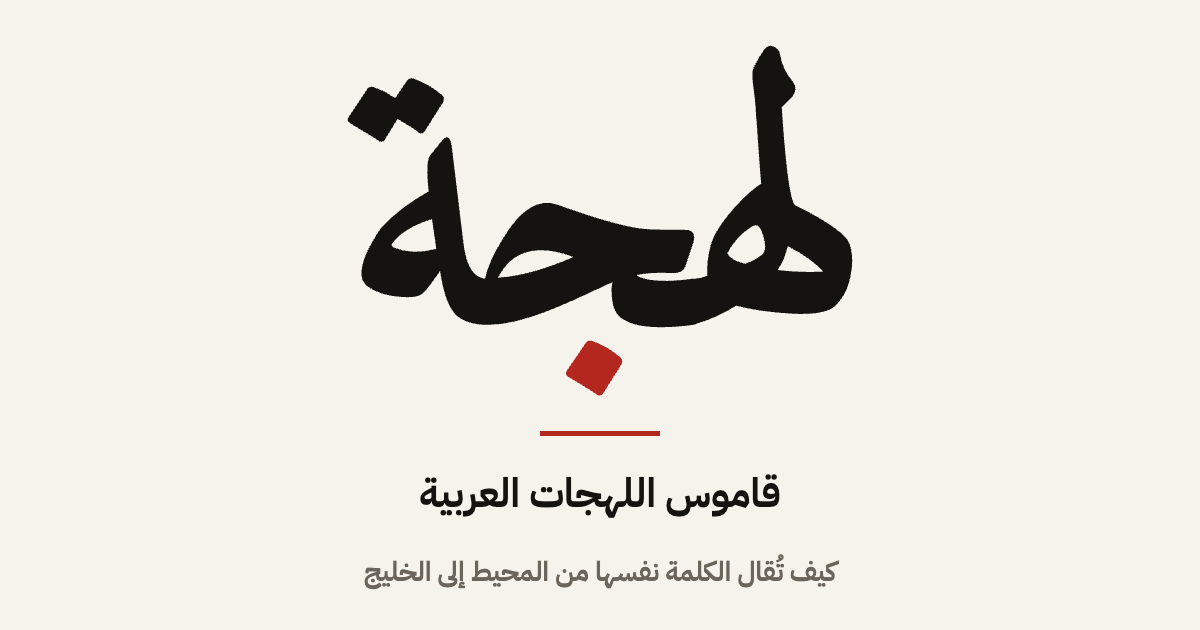
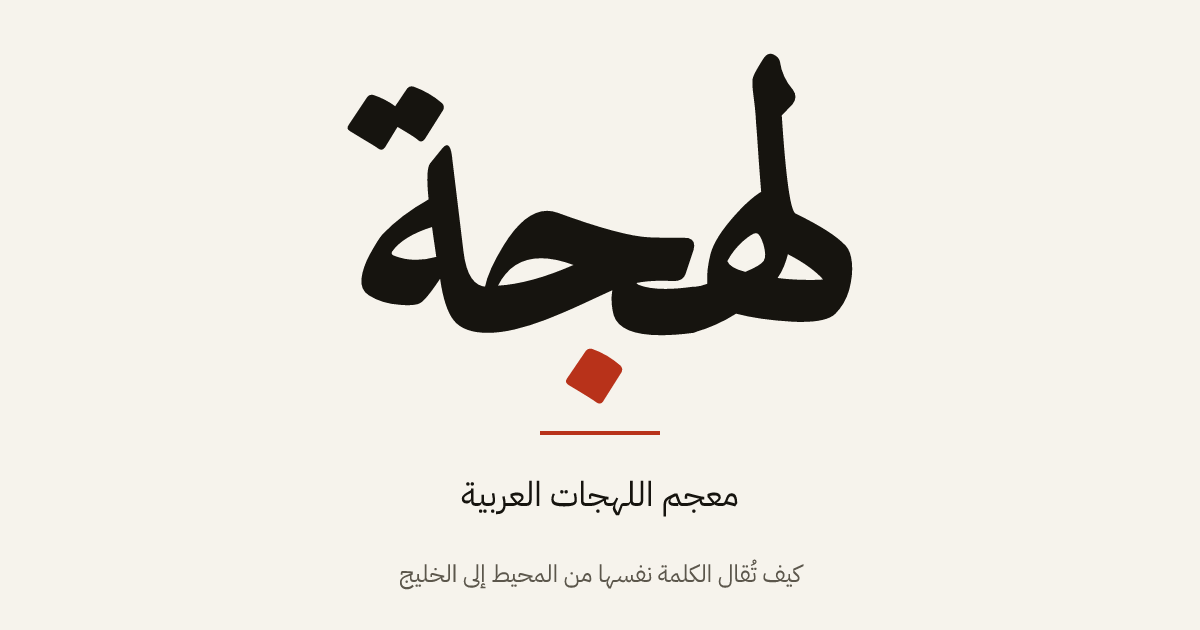
refactor: update terminology from "قاموس" to "معجم" throughout the project
- Changed all instances of "قاموس" to "معجم" in README.md, layout files, and various page components to reflect a more accurate description of the project's purpose.
- Updated SEO descriptions and titles to maintain consistency with the new terminology.
- Adjusted relevant documentation and comments to align with the terminology change.

diff --git a/app/pages/about.vue b/app/pages/about.vue
@@ -1,5 +1,5 @@
 <script setup lang="ts">
-useSeo({ title: 'عن الموقع', description: 'لهجة قاموس تشاركي للهجات العربية: يربط كل كلمة دارجة بمعناها بالفصحى ليظهر كيف تُقال الفكرة نفسها في أنحاء الوطن العربي.' })
+useSeo({ title: 'عن الموقع', description: 'لهجة معجم تشاركي للهجات العربية: يربط كل كلمة دارجة بمعناها بالفصحى ليظهر كيف تُقال الفكرة نفسها في أنحاء الوطن العربي.' })
 // The list of dialects is read from the database rather than written here: a
 // list typed by hand went out of date the day نجدي and حجازي became groups of
 // their own. ?all=1 as on /dialects — a dialect is supported from the moment a
@@ -11,7 +11,7 @@ const { data: dialects } = await useFetch('/api/dialects', { query: { all: 1 } }
   <article>
     <BreadCrumbs :trail="[{ label: 'عن الموقع' }]" />
     <h1>عن موقع لهجة</h1>
-    <p>قاموس إلكتروني عربي بين اللغة العربية الفصحى ولهجاتها الدارجة.</p>
+    <p>معجم إلكتروني عربي بين اللغة العربية الفصحى ولهجاتها الدارجة.</p>
     <p>
       هذا الموقع للاحتفاء بالثقافات العربية المتعددة وللتبادل الإيجابي البناء
       بين هذه الثقافات.
@@ -28,7 +28,7 @@ const { data: dialects } = await useFetch('/api/dialects', { query: { all: 1 } }
     <section id="vision">
       <h2>رؤيتنا</h2>
       <p>
-        نسعى إلى بناء أكبر قاموس تفاعلي للهجات العربية، يساهم في الحفاظ على
+        نسعى إلى بناء أكبر معجم تفاعلي للهجات العربية، يساهم في الحفاظ على
         التنوع اللغوي والثقافي في العالم العربي، ويسهل التواصل بين المتحدثين
         باللهجات المختلفة.
       </p>
@@ -39,11 +39,11 @@ const { data: dialects } = await useFetch('/api/dialects', { query: { all: 1 } }
     </section>
 
     <section id="dictionary">
-      <h2>القاموس</h2>
+      <h2>المعجم</h2>
 
       <h3 id="content">المحتوى</h3>
       <p>
-        كل صفحة في القاموس تبدأ من معنى بالعربية الفصحى: كلمة أو عبارة قصيرة أو
+        كل صفحة في المعجم تبدأ من معنى بالعربية الفصحى: كلمة أو عبارة قصيرة أو
         مثل شعبي. وتحت هذا المعنى تجتمع الأشكال التي يُقال بها في اللهجات، كل
         شكل منها منسوب إلى لهجته.
       </p>
@@ -55,7 +55,7 @@ const { data: dialects } = await useFetch('/api/dialects', { query: { all: 1 } }
       </ul>
       <p>
         ولا تستحق الكلمة صفحة إلا إذا اختلفت اللهجات في قولها؛ فما يقوله العرب
-        جميعاً بلفظ واحد لا يحتاج إلى قاموس.
+        جميعاً بلفظ واحد لا يحتاج إلى معجم.
       </p>
 
       <h3 id="dialects">اللهجات المدعومة</h3>
@@ -87,7 +87,7 @@ const { data: dialects } = await useFetch('/api/dialects', { query: { all: 1 } }
 
       <h3 id="license">الرخصة</h3>
       <p>
-        القاموس ملك لمن يتكلمون هذه اللهجات، فمحتواه كله متاح برخصة
+        المعجم ملك لمن يتكلمون هذه اللهجات، فمحتواه كله متاح برخصة
         <a href="https://creativecommons.org/licenses/by-sa/4.0/deed.ar" rel="license noopener">المشاع الإبداعي: نَسب المُصنَّف - الترخيص بالمثل 4.0 (CC BY-SA 4.0)</a>.
         يحق لك أن تنسخه وتوزعه وتبني عليه لأي غرض، بشرطين: أن تنسبه إلى «لهجة»
         مع رابط إلى الموقع، وأن تنشر ما تبنيه عليه بالرخصة نفسها. والتفاصيل في
@@ -112,25 +112,25 @@ const { data: dialects } = await useFetch('/api/dialects', { query: { all: 1 } }
         لرؤية الكلمات التي تختلفان فيها.
       </p>
 
-      <h3 id="more">أكثر من قاموس</h3>
+      <h3 id="more">أكثر من معجم</h3>
       <ul>
         <li><NuxtLink to="/games">الألغاز</NuxtLink>: لعبتان جديدتان كل يوم، بلا حساب: خمّن الكلمة من أشكالها في اللهجات، أو خمّن اللهجة من شكل الكلمة.</li>
-        <li><NuxtLink to="/divergent">الكلمات التي تختلف عليها اللهجات أكثر</NuxtLink>: القاموس مرتباً بحسب اختلاف اللهجات على كل كلمة.</li>
+        <li><NuxtLink to="/divergent">الكلمات التي تختلف عليها اللهجات أكثر</NuxtLink>: المعجم مرتباً بحسب اختلاف اللهجات على كل كلمة.</li>
       </ul>
     </section>
 
     <section id="join">
       <h2>انضم إلينا</h2>
       <p>
-        نرحب بمساهماتكم في إثراء قاموس «لهجة» بالكلمات والتعبيرات من لهجاتكم
-        المحلية. كلما زادت المساهمات، أصبح القاموس أكثر شمولاً وفائدة للجميع.
+        نرحب بمساهماتكم في إثراء معجم «لهجة» بالكلمات والتعبيرات من لهجاتكم
+        المحلية. كلما زادت المساهمات، أصبح المعجم أكثر شمولاً وفائدة للجميع.
       </p>
 
       <h3>إضافة الكلمات</h3>
       <p>
         يمكن لكل من له حساب مؤكَّد البريد أن يضيف كلمة جديدة، أو شكلاً من لهجته
         لكلمة موجودة، أو مثالاً على الاستعمال. ولكل صفحة سجلّ يحفظ تعديلاتها،
-        وما يُضاف يُنشر باسم صاحبه وبرخصة القاموس نفسها.
+        وما يُضاف يُنشر باسم صاحبه وبرخصة المعجم نفسها.
       </p>
 
       <h3>الإبلاغ عن الأخطاء</h3>

diff --git a/app/pages/index.vue b/app/pages/index.vue
@@ -52,20 +52,20 @@ const countLabel = computed(() => {
 })
 
 useSeo({
-  title: () => activeQuery.value ? `بحث: ${activeQuery.value}` : 'قاموس اللهجات العربية',
+  title: () => activeQuery.value ? `بحث: ${activeQuery.value}` : 'معجم اللهجات العربية',
   path: '/',
   description: () => activeQuery.value
-    ? `نتائج البحث عن «${activeQuery.value}» في قاموس اللهجات العربية.`
-    : 'قاموس تشاركي للهجات العربية: ابحث عن كلمة بالفصحى أو بأي لهجة وشاهد كيف تُقال في مصر والشام والخليج والعراق واليمن والمغرب والسودان.',
+    ? `نتائج البحث عن «${activeQuery.value}» في معجم اللهجات العربية.`
+    : 'معجم تشاركي للهجات العربية: ابحث عن كلمة بالفصحى أو بأي لهجة وشاهد كيف تُقال في مصر والشام والخليج والعراق واليمن والمغرب والسودان.',
   noindex: () => !!activeQuery.value,
   jsonLd: [{
     '@context': 'https://schema.org',
     '@type': 'WebSite',
     name: 'لهجة',
-    alternateName: 'لهجة، قاموس اللهجات العربية',
+    alternateName: 'لهجة، معجم اللهجات العربية',
     url: 'https://lahga.fyi/',
     inLanguage: 'ar',
-    description: 'قاموس تشاركي يربط كلمات اللهجات العربية بمعانيها بالفصحى.',
+    description: 'معجم تشاركي يربط كلمات اللهجات العربية بمعانيها بالفصحى.',
     potentialAction: {
       '@type': 'SearchAction',
       target: { '@type': 'EntryPoint', urlTemplate: 'https://lahga.fyi/?q={search_term_string}' },
@@ -83,7 +83,7 @@ useSeo({
       <p role="status">{{ searching ? 'جاري البحث…' : countLabel }}</p>
     </hgroup>
     <hgroup v-else class="head">
-      <h1>كلمات من القاموس</h1>
+      <h1>كلمات من المعجم</h1>
       <p>ابحث في الأعلى بالفصحى أو بأي لهجة، أو اقرأ ما وقعت عليه القرعة.</p>
     </hgroup>
 
@@ -105,7 +105,7 @@ useSeo({
         </template>
       </p>
       <p>
-        <NuxtLink class="cta" :to="{ path: '/add-word', query: { headword: activeQuery } }">أضف «{{ activeQuery }}» إلى القاموس</NuxtLink>
+        <NuxtLink class="cta" :to="{ path: '/add-word', query: { headword: activeQuery } }">أضف «{{ activeQuery }}» إلى المعجم</NuxtLink>
       </p>
       <p><small><NuxtLink to="/" aria-current-value="false">اقرأ كلمات أخرى</NuxtLink> · <NuxtLink to="/dialects">تصفّح اللهجات</NuxtLink></small></p>
     </div>

diff --git a/app/pages/terms.vue b/app/pages/terms.vue
@@ -1,5 +1,5 @@
 <script setup lang="ts">
-useSeo({ title: 'شروط الاستخدام', description: 'شروط استخدام موقع لهجة: الحساب، قواعد السلوك، والمحتوى الذي يضيفه المستخدمون، ورخصة المشاع الإبداعي التي يُنشر بها القاموس.' })
+useSeo({ title: 'شروط الاستخدام', description: 'شروط استخدام موقع لهجة: الحساب، قواعد السلوك، والمحتوى الذي يضيفه المستخدمون، ورخصة المشاع الإبداعي التي يُنشر بها المعجم.' })
 </script>
 
 <template>
@@ -69,10 +69,10 @@ useSeo({ title: 'شروط الاستخدام', description: 'شروط استخد
   <section id="contributions">
   <h2>المحتوى المقدم من المستخدمين</h2>
   <p>
-  ما تضيفه إلى القاموس (كلمات وأشكالها في اللهجات وتعريفات وملاحظات وأمثلة
+  ما تضيفه إلى المعجم (كلمات وأشكالها في اللهجات وتعريفات وملاحظات وأمثلة
   وأوصاف لهجات) يبقى لك، وأنت بنشره توافق على إتاحته للجميع برخصة
   <a href="https://creativecommons.org/licenses/by-sa/4.0/deed.ar" rel="license noopener">المشاع الإبداعي: نَسب المُصنَّف - الترخيص بالمثل 4.0 دولي (CC BY-SA 4.0)</a>،
-  وهي الرخصة التي يُنشر بها القاموس كله. هذه الموافقة لا رجوع عنها فيما نُشر:
+  وهي الرخصة التي يُنشر بها المعجم كله. هذه الموافقة لا رجوع عنها فيما نُشر:
   يمكنك تعديل ما أضفته أو حذفه من الموقع، لكن من نسخه قبل ذلك بموجب الرخصة
   يبقى على حقه.
   </p>
@@ -99,7 +99,7 @@ useSeo({ title: 'شروط الاستخدام', description: 'شروط استخد
   <section id="license">
   <h2>الرخصة والملكية الفكرية</h2>
   <p>
-  محتوى القاموس متاح برخصة
+  محتوى المعجم متاح برخصة
   <a href="https://creativecommons.org/licenses/by-sa/4.0/deed.ar" rel="license noopener">المشاع الإبداعي: نَسب المُصنَّف - الترخيص بالمثل 4.0 دولي (CC BY-SA 4.0)</a>.
   يشمل ذلك الكلمات وأشكالها في اللهجات والتعريفات والملاحظات والأمثلة وأوصاف
   اللهجات. بموجب هذه الرخصة يحق لك، دون إذن منا:

diff --git a/app/layouts/default.vue b/app/layouts/default.vue
@@ -28,7 +28,7 @@ const { loggedIn, user } = useUserSession()
     </div>
 
     <header>
-      <NuxtLink to="/" aria-label="لهجة، قاموس اللهجات العربية: الصفحة الرئيسية">
+      <NuxtLink to="/" aria-label="لهجة، معجم اللهجات العربية: الصفحة الرئيسية">
         <AppLogo />
       </NuxtLink>
       <nav aria-label="الرئيسي">
@@ -55,12 +55,12 @@ const { loggedIn, user } = useUserSession()
     <footer>
       <AppLogo />
       <p>
-        لهجة هو قاموس إلكتروني للمصطلحات اليومية المستخدمة في اللهجات العربية المختلفة في أنحاء الوطن العربي.
+        لهجة هو معجم إلكتروني للمصطلحات اليومية المستخدمة في اللهجات العربية المختلفة في أنحاء الوطن العربي.
         هذا الموقع يتيح الفرصة للجمهور بإضافة المزيد من المواد وتصحيح ما هو موجود.
       </p>
       <!-- rel="license" says to a crawler what the sentence says to a reader. -->
       <p>
-        <small>محتوى القاموس متاح برخصة المشاع الإبداعي
+        <small>محتوى المعجم متاح برخصة المشاع الإبداعي
         <a href="https://creativecommons.org/licenses/by-sa/4.0/deed.ar" rel="license noopener">CC BY-SA 4.0</a>:
         انسخه وابنِ عليه، مع نسبته إلى «لهجة» وبالرخصة نفسها.</small>
       </p>

diff --git a/app/pages/add-word.vue b/app/pages/add-word.vue
@@ -3,7 +3,7 @@
 // search that found nothing is told so on the page rather than bounced to the
 // login form and left to find the way back: ContributeGate carries ?headword=
 // into the link, so the form is waiting, filled in, when they return.
-useSeo({ title: 'أضف كلمة', description: 'أضف كلمة من لهجتك إلى قاموس لهجة: اربطها بمعناها بالفصحى واذكر مثالاً على استعمالها.', noindex: true })
+useSeo({ title: 'أضف كلمة', description: 'أضف كلمة من لهجتك إلى معجم لهجة: اربطها بمعناها بالفصحى واذكر مثالاً على استعمالها.', noindex: true })
 // A search that found nothing sends the term along (?headword=…), so the page
 // opens on the word the visitor was already looking for.
 const route = useRoute()
@@ -101,7 +101,7 @@ const { busy, error, run } = useForm(async () => {
          more useful instead, and rarely knows it. Every line here is a door
          that already exists somewhere on the site. -->
     <section class="more">
-      <h2>وللقاموس أبواب أخرى</h2>
+      <h2>وللمعجم أبواب أخرى</h2>
       <p>الإضافة ليست الطريق الوحيد؛ من صفحة أي كلمة أو لهجة يمكنك:</p>
       <ul>
         <li>أن تضيف شكل الكلمة في لهجتك إلى كلمة موجودة، أو مثالاً على استعمالها.</li>

diff --git a/nuxt.config.ts b/nuxt.config.ts
@@ -41,9 +41,9 @@ export default defineNuxtConfig({
       script: [{
         innerHTML: `try{var t=localStorage.getItem('theme');if(t==='light'||t==='dark')document.documentElement.dataset.theme=t}catch(e){}`,
       }],
-      title: 'لهجة - قاموس اللهجات العربية',
+      title: 'لهجة - معجم اللهجات العربية',
       meta: [
-        { name: 'description', content: 'لهجة - قاموس اللهجات العربية. اكتشف وشارك كلمات ومصطلحات من مختلف اللهجات العربية.' },
+        { name: 'description', content: 'لهجة - معجم اللهجات العربية. اكتشف وشارك كلمات ومصطلحات من مختلف اللهجات العربية.' },
         // Pages set their own through useSeo(); these are the fallbacks.
         { property: 'og:image:width', content: '1200' },
         { property: 'og:image:height', content: '630' },

diff --git a/app/pages/u/[id].vue b/app/pages/u/[id].vue
@@ -6,7 +6,7 @@ const { data: contributions } = await useFetch(`/api/users/${route.params.id}/co
 const kindLabel = { word: '', phrase: 'عبارة', proverb: 'مثل' } as const
 useSeo({
   title: () => profile.value?.displayName ?? '',
-  description: () => profile.value ? `صفحة ${profile.value.displayName} في لهجة: الكلمات التي أضافها إلى قاموس اللهجات العربية.` : '',
+  description: () => profile.value ? `صفحة ${profile.value.displayName} في لهجة: الكلمات التي أضافها إلى معجم اللهجات العربية.` : '',
 })
 const since = computed(() => profile.value ? new Intl.DateTimeFormat('ar', { year: 'numeric', month: 'long' }).format(new Date(profile.value.createdAt)) : '')
 const roleLabel = { user: '', moderator: 'مشرف', admin: 'مدير' } as const

diff --git a/app/pages/w/[slug]/index.vue b/app/pages/w/[slug]/index.vue
@@ -38,7 +38,7 @@ useSeo({
       '@type': 'DefinedTerm',
       name: word.value.headword,
       description: word.value.definition,
-      inDefinedTermSet: { '@type': 'DefinedTermSet', name: 'لهجة، قاموس اللهجات العربية', url: 'https://lahga.fyi', license: 'https://creativecommons.org/licenses/by-sa/4.0/' },
+      inDefinedTermSet: { '@type': 'DefinedTermSet', name: 'لهجة، معجم اللهجات العربية', url: 'https://lahga.fyi', license: 'https://creativecommons.org/licenses/by-sa/4.0/' },
       url: `https://lahga.fyi/w/${word.value.slug}`,
       inLanguage: 'ar',
       ...(forms.value.length ? { alternateName: forms.value.map(f => f.form) } : {}),

diff --git a/app/pages/divergent.vue b/app/pages/divergent.vue
@@ -27,7 +27,7 @@ const note = (w: Divergent[number]) =>
 
 useSeo({
   title: 'الكلمات التي تختلف عليها اللهجات أكثر',
-  description: 'ترتيب كلمات القاموس بحسب اختلاف اللهجات عليها: الكلمات التي لكل لهجة فيها كلمة أخرى، من الأكثر اختلافاً إلى الأقل.',
+  description: 'ترتيب كلمات المعجم بحسب اختلاف اللهجات عليها: الكلمات التي لكل لهجة فيها كلمة أخرى، من الأكثر اختلافاً إلى الأقل.',
   path: '/divergent',
   image: '/og/divergent.png',
 })

diff --git a/app/pages/d/[slug]/index.vue b/app/pages/d/[slug]/index.vue
@@ -13,7 +13,7 @@ if (error.value) throw createError({ statusCode: error.value.statusCode ?? 404, 
 const paragraphs = computed(() => (dialect.value?.descriptionAr ?? '').split(/\n\s*\n/).map(t => t.trim()).filter(Boolean))
 useSeo({
   // The dialect name stays a label, so the title reads correctly for every name.
-  title: () => dialect.value ? `${dialect.value.nameAr}: قاموس كلمات اللهجة` : '',
+  title: () => dialect.value ? `${dialect.value.nameAr}: معجم كلمات اللهجة` : '',
   description: () => {
     if (!dialect.value) return ''
     // The shown words change with every draw; the description quotes the

diff --git a/app/pages/games/index.vue b/app/pages/games/index.vue
@@ -3,7 +3,7 @@
 // top-level link every time another one is added.
 useSeo({
   title: 'الألغاز',
-  description: 'الألغاز اليومية من قاموس لهجة: خمّن الكلمة بالفصحى من أشكالها في اللهجات، أو خمّن اللهجة من شكل الكلمة.',
+  description: 'الألغاز اليومية من معجم لهجة: خمّن الكلمة بالفصحى من أشكالها في اللهجات، أو خمّن اللهجة من شكل الكلمة.',
   path: '/games',
 })
 </script>

diff --git a/app/pages/contact.vue b/app/pages/contact.vue
@@ -1,5 +1,5 @@
 <script setup lang="ts">
-useSeo({ title: 'اتصل بنا', description: 'راسل فريق لهجة باقتراحاتك وملاحظاتك على قاموس اللهجات العربية.' })
+useSeo({ title: 'اتصل بنا', description: 'راسل فريق لهجة باقتراحاتك وملاحظاتك على معجم اللهجات العربية.' })
 const form = reactive({ name: '', email: '', subject: '', message: '', website: '' })
 const sent = ref(false)
 const { busy, error, run } = useForm(async () => {
